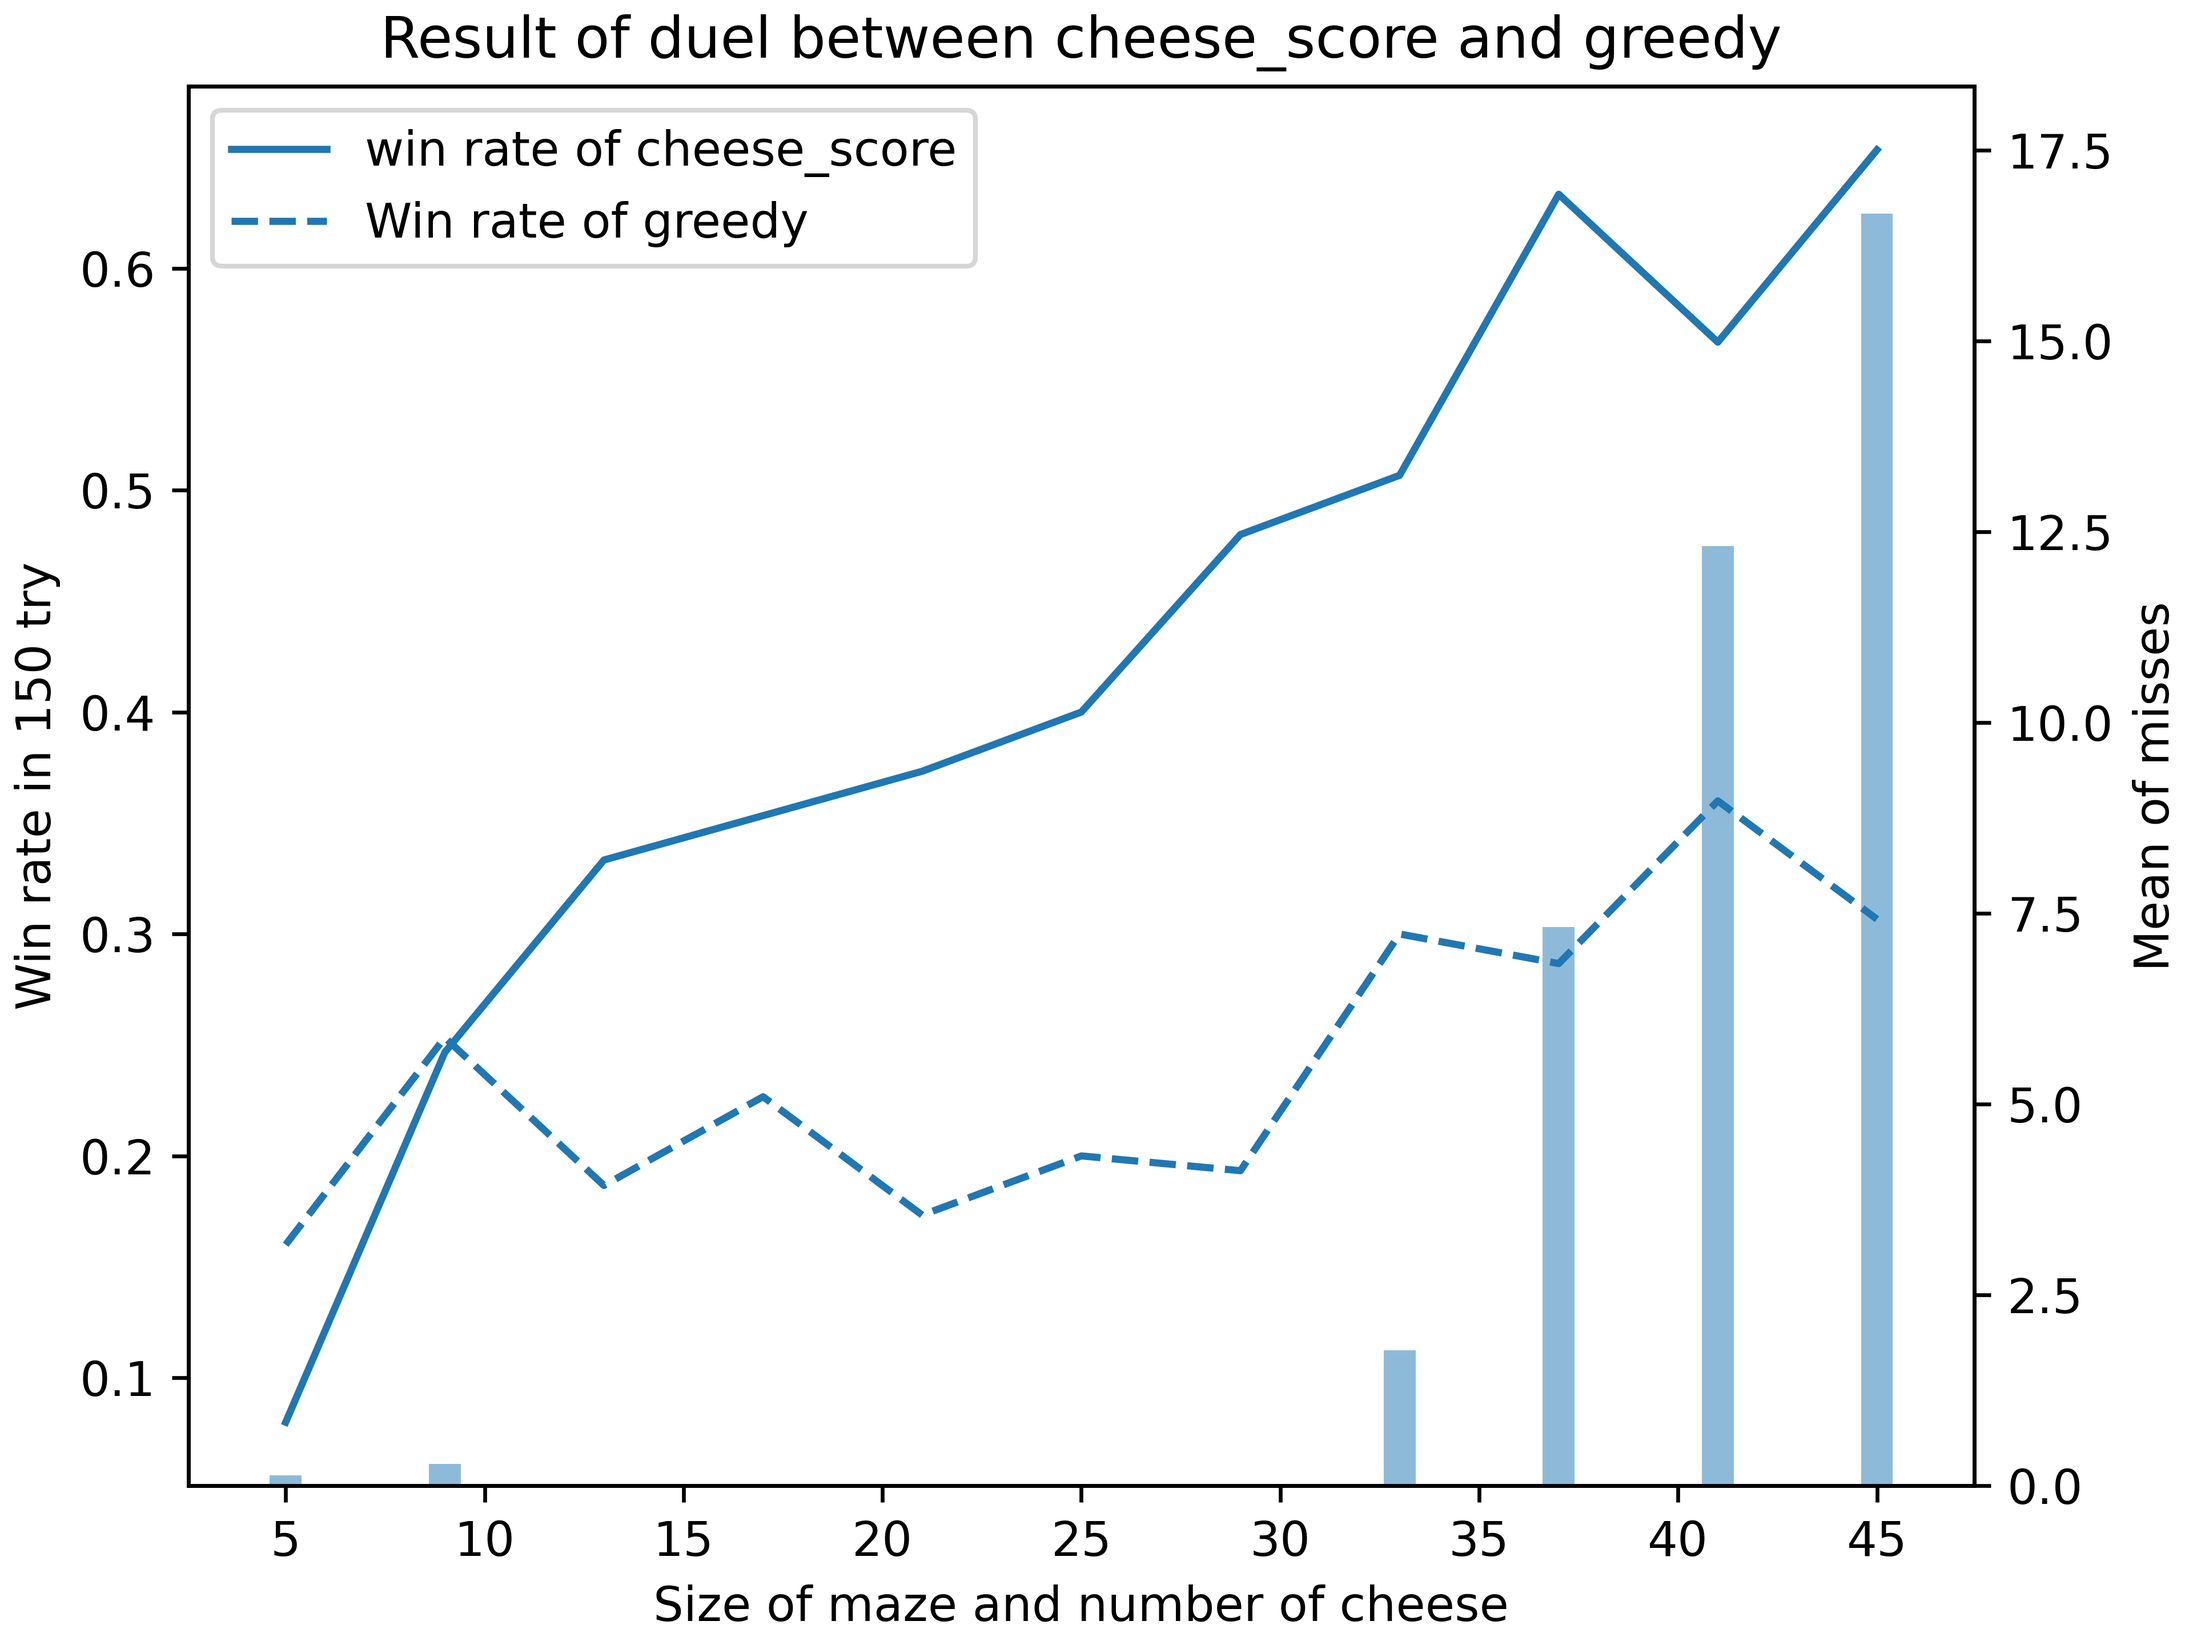
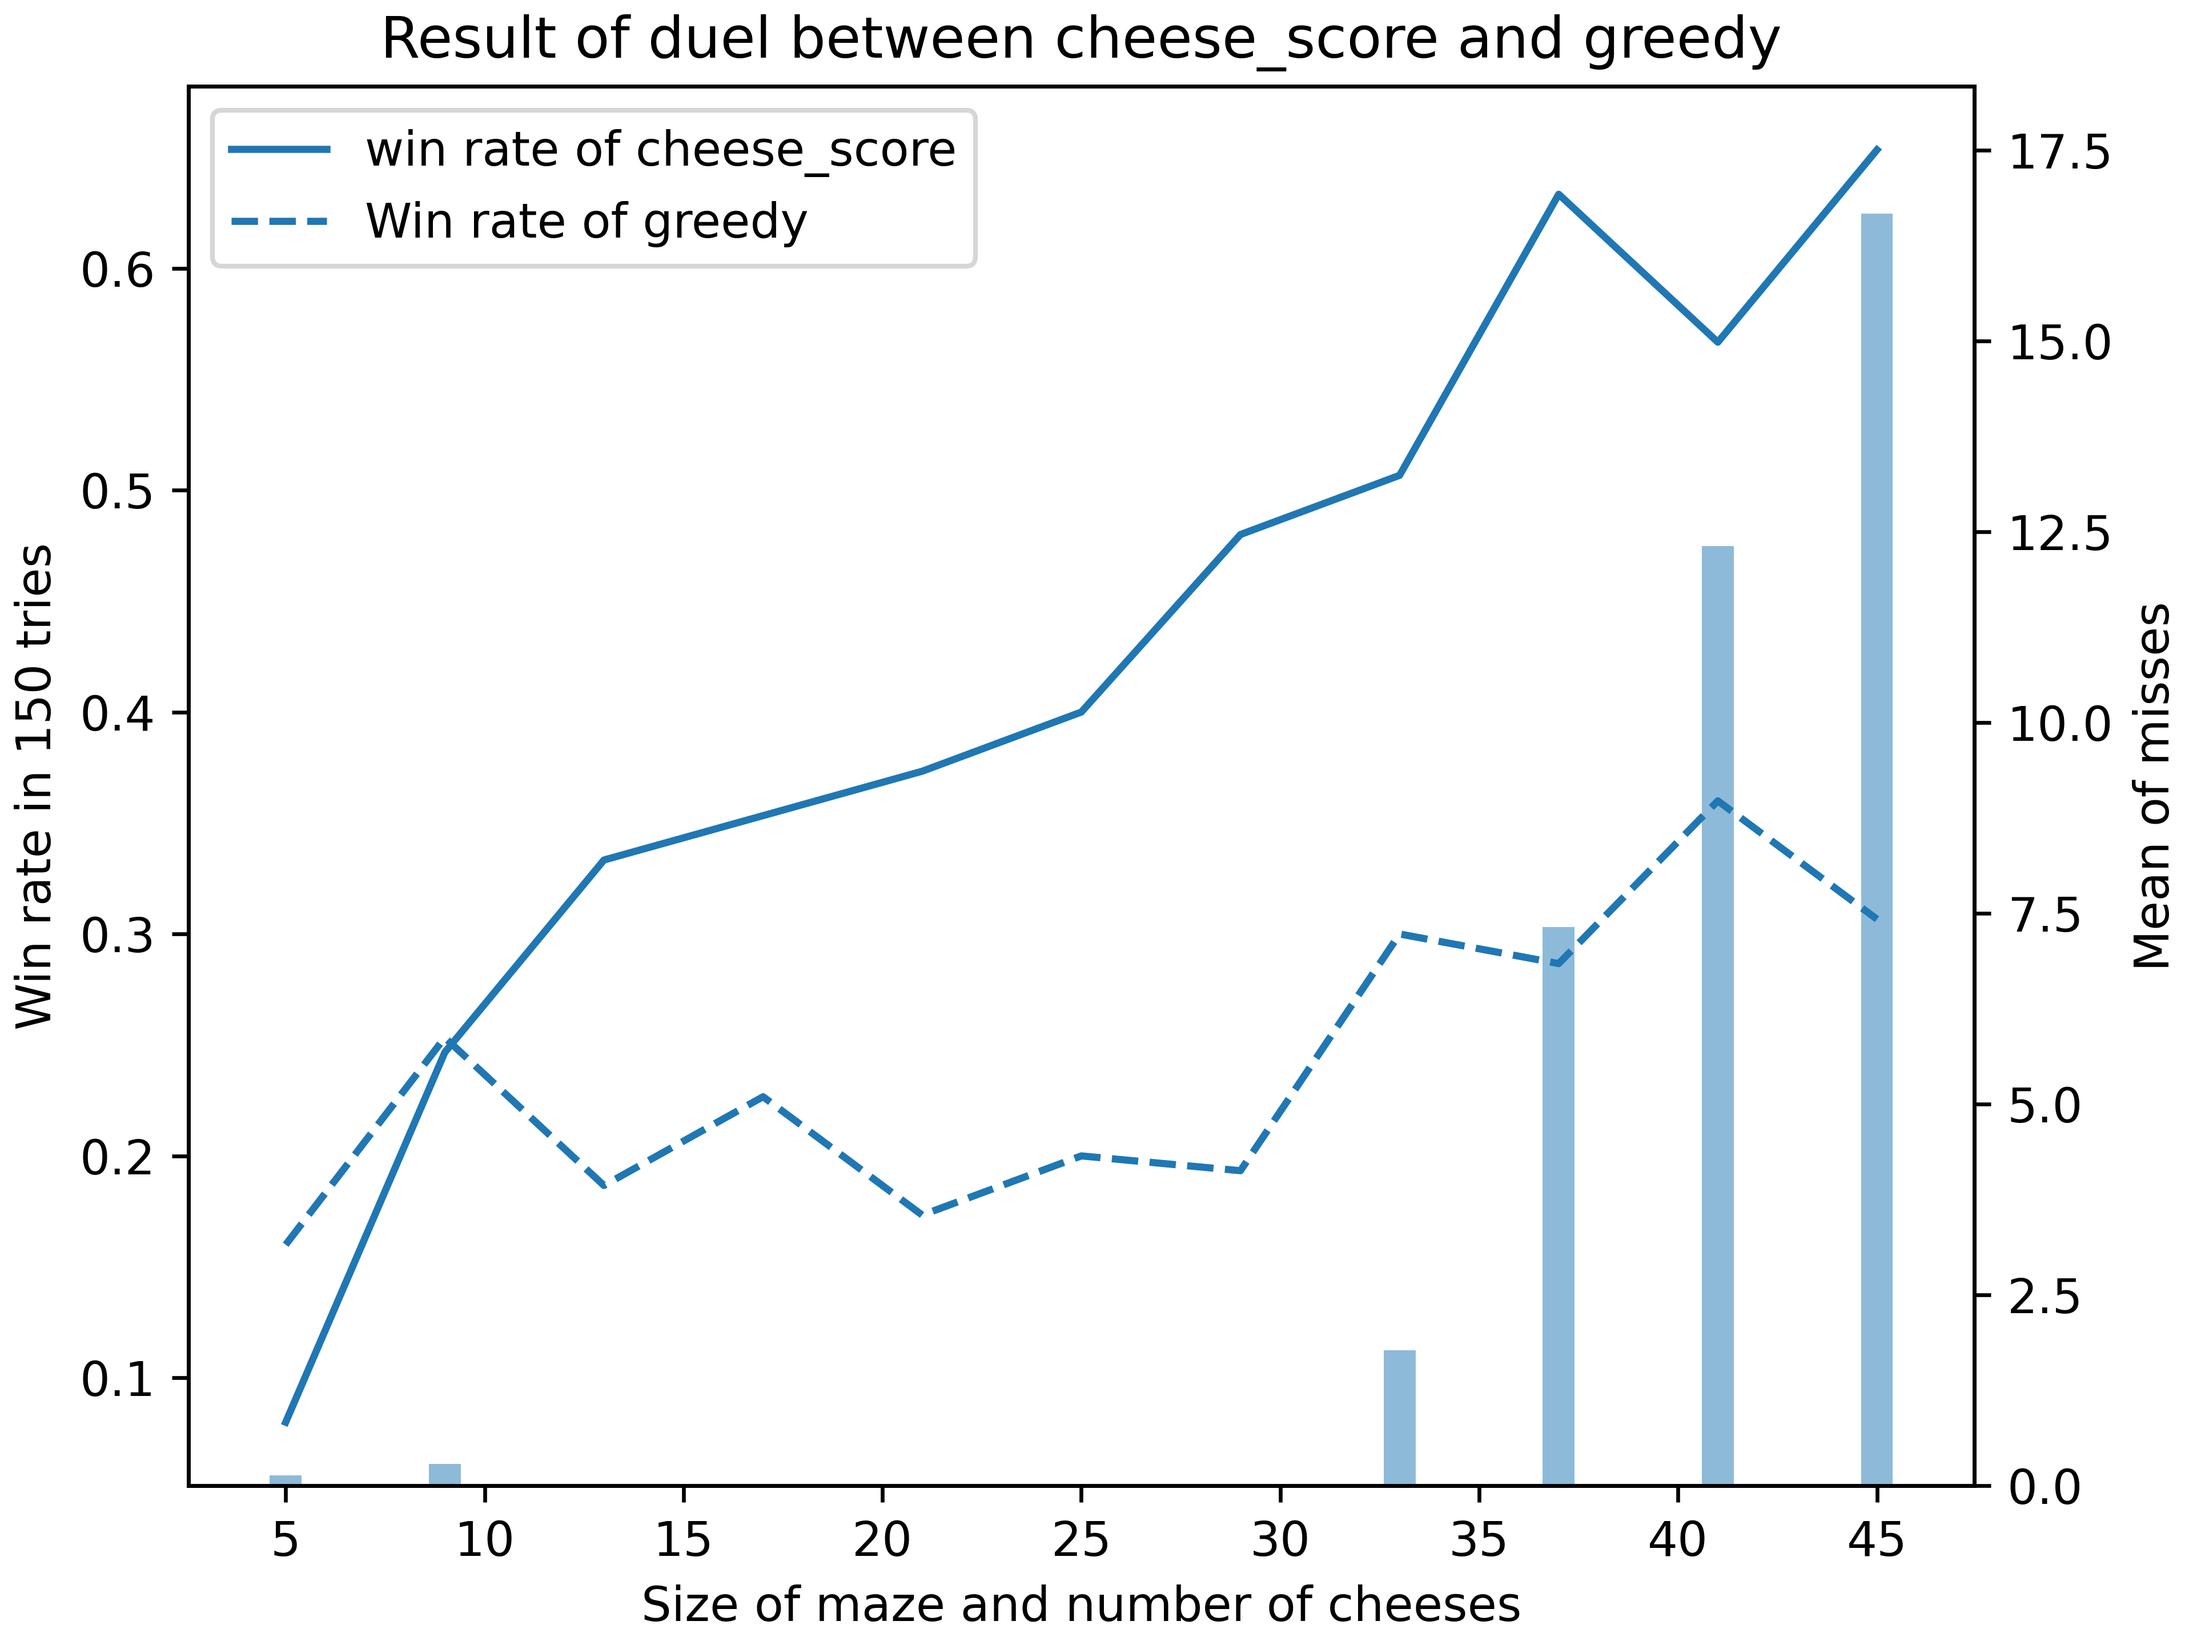
pres ready

Changed region(s): [[0.2812, 0.9688, 0.6875, 1.0], [0.0, 0.3438, 0.0312, 0.625]]

diff --git a/graph.py b/graph.py
@@ -96,22 +96,22 @@ def draw():
     global x_list
     datas, max_miss = read_datas()
     for i in range(0, len(datas), 4):
-        i = 16
+        # i = 16
         f, ax1 = plt.subplots(constrained_layout=True)
-        # ax2 = ax1.twinx()
+        ax2 = ax1.twinx()
         t, = ax1.plot(x_list, datas[i + 1], label=f"win rate of {datas[i]}")
         cl = t.get_color()
         ax1.plot(x_list, datas[i + 2], color=cl, linestyle="--", label="Win rate of greedy")
-        # ax2.bar(x_list, datas[i + 3], color=cl, alpha=0.5)
-        # ax2.set_ylim(0, max_miss * 1.10)
+        ax2.bar(x_list, datas[i + 3], color=cl, alpha=0.5)
+        ax2.set_ylim(0, max_miss * 1.10)
 
-        ax1.set_xlabel("Size of maze and number of cheese")
-        ax1.set_ylabel(f"Win rate in {n_test} try")
-        # ax2.set_ylabel("Mean of misses")
+        ax1.set_xlabel("Size of maze and number of cheeses")
+        ax1.set_ylabel(f"Win rate in {n_test} tries")
+        ax2.set_ylabel("Mean of misses")
         plt.title(f"Result of duel between {datas[i]} and greedy")
         ax1.legend()
         plt.savefig(f"./result_{datas[i]}.png", dpi=600)
-        return
+        # return
         # plt.clf()
     # plt.show()
 
